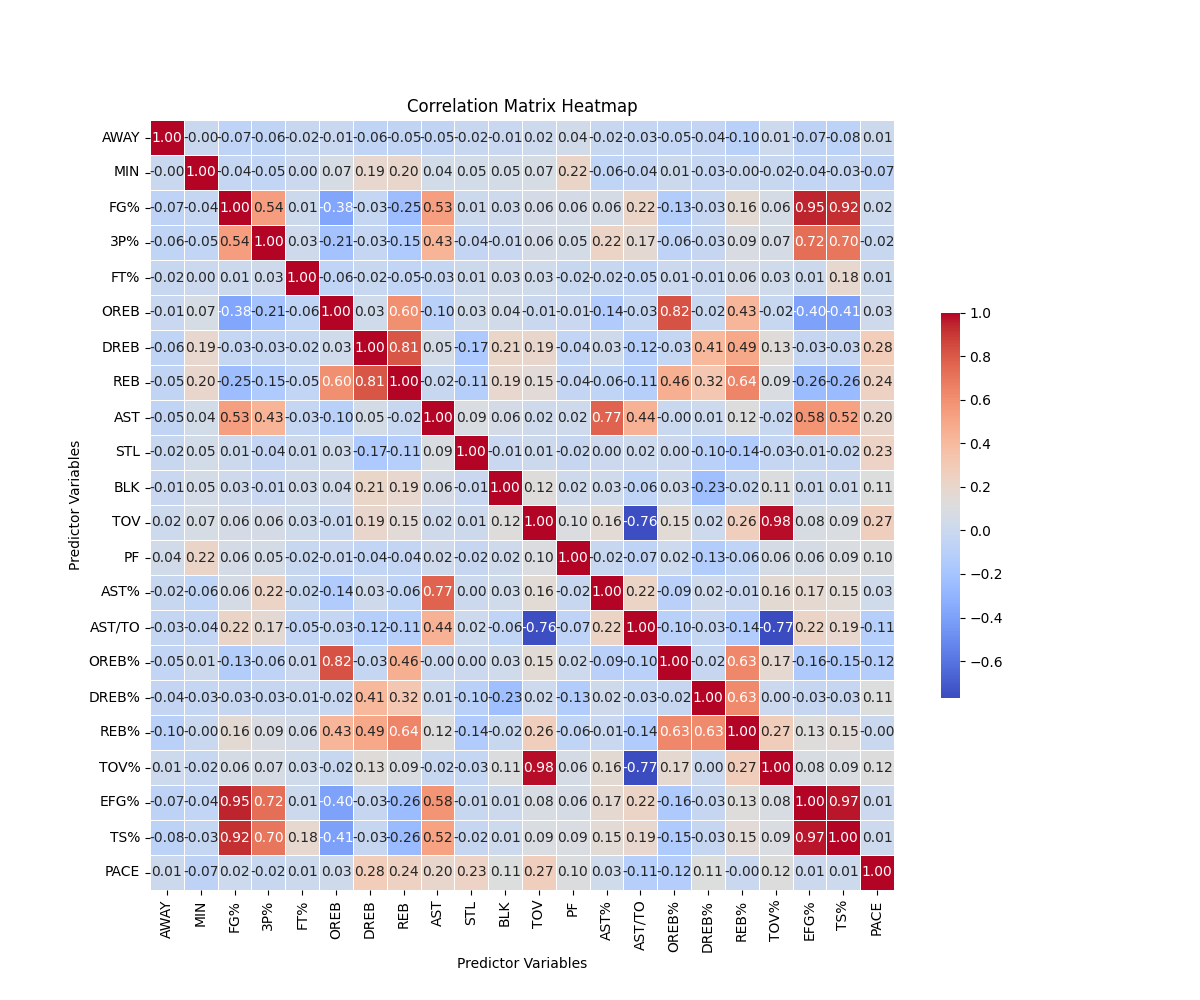
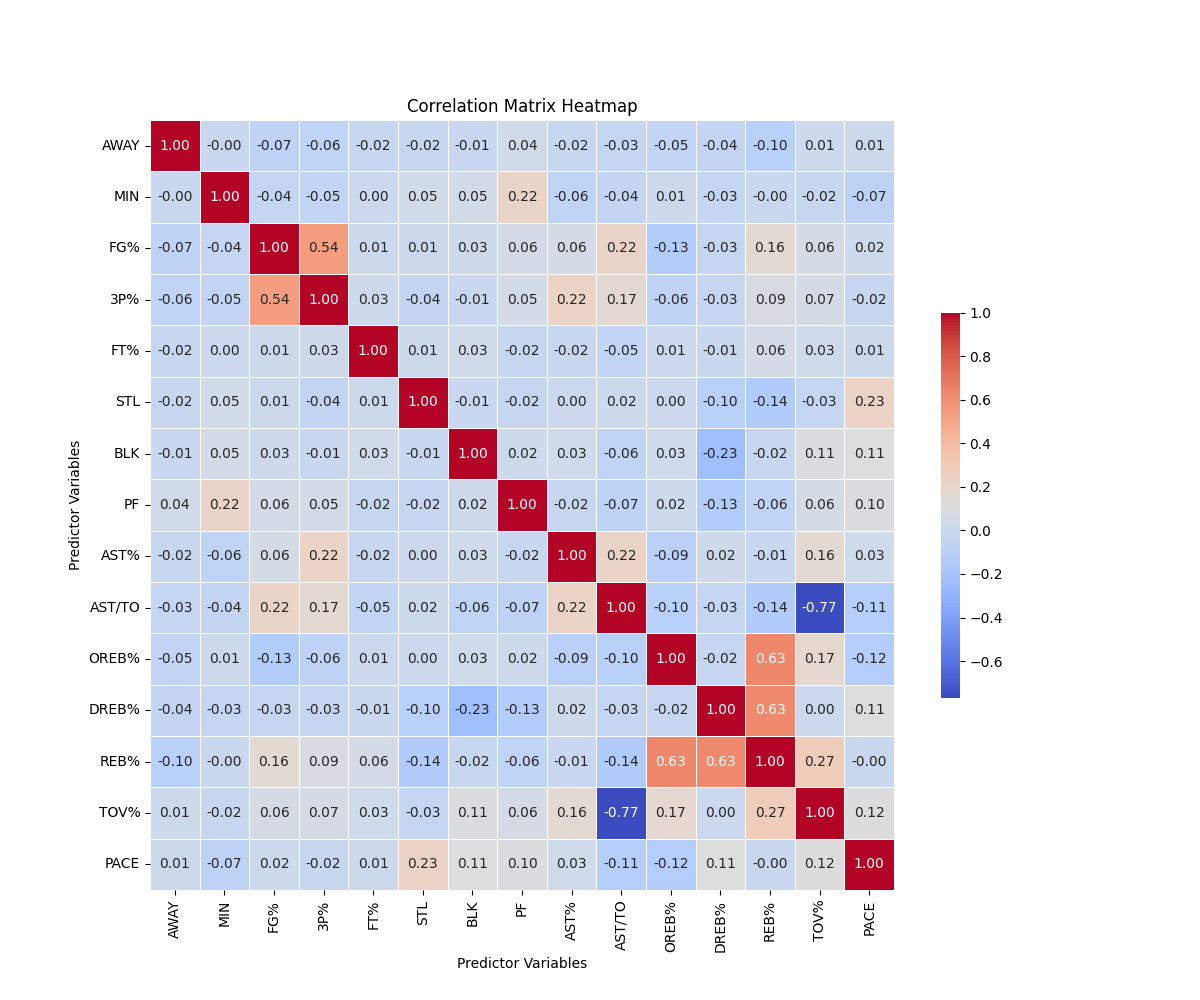
Did hyperparameter tuning and validation

Changed region(s): [[0.0617, 0.124, 0.7708, 0.961]]

diff --git a/models/ben_models.py b/models/ben_models.py
@@ -6,6 +6,8 @@ from sklearn.linear_model import LogisticRegression
 from sklearn.metrics import accuracy_score, classification_report
 from sklearn.preprocessing import StandardScaler, MinMaxScaler
 from sklearn.ensemble import AdaBoostClassifier, GradientBoostingClassifier
+from sklearn.model_selection import cross_val_score, GridSearchCV
+
 
 import matplotlib.pyplot as plt
 import matplotlib
@@ -13,18 +15,20 @@ matplotlib.use('Agg')
 
 import seaborn as sns
 
+from statsmodels.stats.outliers_influence import variance_inflation_factor
+
 
 
 # Load the data
 data = pd.read_excel('../data/2023/encoded_allstats.xlsx')
 
 # Columns to remove that might contain outcome-related information
-necessary = ['+/-', 'OFFRTG', 'DEFRTG', 'NETRTG', 'PIE', 'PTS', 'FGM', 'FTM', '3PM', 'FGA', 'FTA', '3PA', 'TEAM_encoded', 'OPPONENT_encoded', 'AST.1']
+necessary = ['W/L', '+/-', 'OFFRTG', 'DEFRTG', 'NETRTG', 'PIE', 'PTS', 'FGM', 'FTM', '3PM', 'FGA', 'FTA', '3PA', 'TEAM_encoded', 'OPPONENT_encoded', 'AST.1']
 
-# columns_to_remove = necessary + ['TEAM_encoded', 'OPPONENT_encoded', 'TS%', 'EFG%', 'REB%', 'FG%', 'AST.1', 'AST', 'DREB', 'REB', '3P%', 'AST/TO']
-columns_to_remove = necessary
+columns_to_remove = necessary + ['OREB', 'DREB', 'REB', 'TOV', 'EFG%', 'AST', 'TS%']
+# columns_to_remove = necessary
 # Drop these columns from the dataset along with the target variable 'W/L'
-X_filtered = data.drop(columns_to_remove + ['W/L'], axis=1)
+X_filtered = data.drop(columns_to_remove, axis=1)
 y = data['W/L']
 
 # Split the data into training and testing sets
@@ -36,6 +40,9 @@ X_train_scaled = scaler.fit_transform(X_train)
 X_test_scaled = scaler.transform(X_test)
 
 
+############################
+#### CORRELATION MATRIX ####
+############################
 
 correlation_matrix = pd.DataFrame(X_train_scaled, columns=X_train.columns).corr()
 
@@ -53,8 +60,36 @@ plt.ylabel('Predictor Variables')
 # Save the figure if you want to use it in a report or presentation
 plt.savefig('correlation_matrix_heatmap.png')
 
-# Show plot
-# plt.show()
+
+#########################
+#### VIF CALCULATION ####
+#########################
+
+# Calculate VIF for each feature in the training set
+vif_data = pd.DataFrame()
+vif_data['feature'] = X_train.columns
+vif_data['VIF'] = [variance_inflation_factor(X_train_scaled, i) for i in range(X_train_scaled.shape[1])]
+
+# Display the VIF for each feature
+print("VIF for each feature:")
+print(vif_data)
+
+# Identify features with an infinite VIF
+infinite_vif_features = vif_data[vif_data['VIF'] == np.inf]['feature'].tolist()
+print("\nFeatures with Infinite VIF (suggesting perfect multicollinearity):")
+print(infinite_vif_features)
+
+# Set a VIF threshold to identify features with high multicollinearity
+vif_threshold = 10
+high_vif_features = vif_data[vif_data['VIF'] > vif_threshold]['feature'].tolist()
+print("\nFeatures with VIF greater than threshold of 10:")
+print(high_vif_features)
+
+
+############################
+#### MODEL CALCULATIONS ####
+############################
+
 
 def logisitic_reg():
 
@@ -65,64 +100,127 @@ def logisitic_reg():
     # Predict the test set results and evaluate the model
     y_pred = model.predict(X_test_scaled)
     accuracy = accuracy_score(y_test, y_pred)
-    report = classification_report(y_test, y_pred)
+    # report = classification_report(y_test, y_pred)
     print("LOGISITC REGRESSION")
     print(f'Accuracy: {accuracy}')
     # print('Classification Report:')
     # print(report)
     
+    # model = LogisticRegression()
+    param_grid = {
+        'C': [0.001, 0.01, 0.1, 1, 10],  # Regularization strength
+        'solver': ['liblinear', 'lbfgs']  # Optimization algorithms
+    }
 
-    feature_names = X_filtered.columns.tolist()
+    # Setup the grid search with cross-validation
+    grid_search = GridSearchCV(model, param_grid, cv=10, scoring='accuracy')
 
-    coefficients = model.coef_[0]
-    coeff_df = pd.DataFrame({'Feature': feature_names, 'Coefficient': coefficients})
+    # Perform the grid search on the scaled training data
+    grid_search.fit(X_train_scaled, y_train)
 
-    # Sort the DataFrame based on the absolute value of the coefficients for better visualization
-    coeff_df = coeff_df.reindex(coeff_df.Coefficient.abs().sort_values(ascending=False).index)
+    # Best parameters and best score
+    print("Best parameters:", grid_search.best_params_)
+    print("Best cross-validation score: {:.2f}".format(grid_search.best_score_))
 
-    # Increase the size for readability
-    plt.figure(figsize=(10, 10))
+    # Evaluate on the test set
+    y_pred = grid_search.predict(X_test_scaled)
+    test_accuracy = accuracy_score(y_test, y_pred)
+    print(f'Test Set Accuracy: {test_accuracy}')
+    
 
-    # Create a more contrasting color palette
-    cmap = sns.diverging_palette(220, 10, as_cmap=True)
+    # feature_names = X_filtered.columns.tolist()
 
-    # Generate the heatmap
-    sns.heatmap(coeff_df.set_index('Feature'), annot=True, fmt=".2f", linewidths=.5, cmap=cmap)
+    # coefficients = model.coef_[0]
+    # coeff_df = pd.DataFrame({'Feature': feature_names, 'Coefficient': coefficients})
 
-    # Improve the readability of the y-axis labels
-    plt.yticks(rotation=0)  # Rotate the labels to be horizontal
-    plt.title('Heatmap of Coefficients in Logistic Regression')
+    # # Sort the DataFrame based on the absolute value of the coefficients for better visualization
+    # coeff_df = coeff_df.reindex(coeff_df.Coefficient.abs().sort_values(ascending=False).index)
 
-    # Save the improved heatmap
-    plt.savefig('improved_heatmap.png')
-    plt.close()  # Close the figure to free up memory
+    # # Increase the size for readability
+    # plt.figure(figsize=(10, 10))
+
+    # # Create a more contrasting color palette
+    # cmap = sns.diverging_palette(220, 10, as_cmap=True)
+
+    # # Generate the heatmap
+    # sns.heatmap(coeff_df.set_index('Feature'), annot=True, fmt=".2f", linewidths=.5, cmap=cmap)
+
+    # # Improve the readability of the y-axis labels
+    # plt.yticks(rotation=0)  # Rotate the labels to be horizontal
+    # plt.title('Heatmap of Coefficients in Logistic Regression')
+
+    # # Save the improved heatmap
+    # plt.savefig('improved_heatmap.png')
+    # plt.close()  # Close the figure to free up memory
 
 
 def ada_boost():
-    ada = AdaBoostClassifier(n_estimators=100, learning_rate=1.0, algorithm="SAMME", random_state=42)
+    ada = AdaBoostClassifier(algorithm="SAMME", random_state=42)
     ada.fit(X_train_scaled, y_train)
     # Predict the test set results and evaluate the model
     y_pred = ada.predict(X_test_scaled)
     accuracy = accuracy_score(y_test, y_pred)
-    report = classification_report(y_test, y_pred)
+    # report = classification_report(y_test, y_pred)
     print("ADA BOOST")
     print(f'Accuracy: {accuracy}')
     # print('Classification Report:')
     # print(report)
+    
+    # ada = AdaBoostClassifier(random_state=42)
+    param_grid_ada = {
+        'n_estimators': [50, 100, 200],  # Number of boosting stages to perform
+        'learning_rate': [0.01, 0.1, 1.0]  # Weight applied to each classifier at each boosting iteration
+    }
+
+    # Setup the grid search with cross-validation
+    grid_search_ada = GridSearchCV(ada, param_grid_ada, cv=10, scoring='accuracy')
+
+    # Perform the grid search on the scaled training data
+    grid_search_ada.fit(X_train_scaled, y_train)
+
+    # Best parameters and best score
+    print("Best parameters for AdaBoost:", grid_search_ada.best_params_)
+    print("Best cross-validation score for AdaBoost: {:.2f}".format(grid_search_ada.best_score_))
+
+    # Evaluate on the test set
+    y_pred_ada = grid_search_ada.predict(X_test_scaled)
+    test_accuracy_ada = accuracy_score(y_test, y_pred_ada)
+    print(f'Test Set Accuracy for AdaBoost: {test_accuracy_ada}')
 
 
 def grad_boost():
-    gb = GradientBoostingClassifier(n_estimators=100, learning_rate=1.0, random_state=42)
+    gb = GradientBoostingClassifier(random_state=42)
     gb.fit(X_train_scaled, y_train)
     # Predict the test set results and evaluate the model
     y_pred = gb.predict(X_test_scaled)
     accuracy = accuracy_score(y_test, y_pred)
-    report = classification_report(y_test, y_pred)
+    # report = classification_report(y_test, y_pred)
     print("GRADIENT BOOST")
     print(f'Accuracy: {accuracy}')
     # print('Classification Report:')
     # print(report)
 
+    # gb = GradientBoostingClassifier(random_state=42)
+    param_grid_gb = {
+        'n_estimators': [100, 200, 300],  # Number of boosting stages to perform
+        'learning_rate': [0.01, 0.1, 0.5],  # Shrinks the contribution of each tree
+        'max_depth': [3, 5, 7]  # Maximum depth of the individual regression estimators
+    }
+
+    # Setup the grid search with cross-validation
+    grid_search_gb = GridSearchCV(gb, param_grid_gb, cv=10, scoring='accuracy')
+
+    # Perform the grid search on the scaled training data
+    grid_search_gb.fit(X_train_scaled, y_train)
+
+    # Best parameters and best score
+    print("Best parameters for Gradient Boosting:", grid_search_gb.best_params_)
+    print("Best cross-validation score for Gradient Boosting: {:.2f}".format(grid_search_gb.best_score_))
+
+    # Evaluate on the test set
+    y_pred_gb = grid_search_gb.predict(X_test_scaled)
+    test_accuracy_gb = accuracy_score(y_test, y_pred_gb)
+    print(f'Test Set Accuracy for Gradient Boosting: {test_accuracy_gb}')
 
 
 logisitic_reg()
